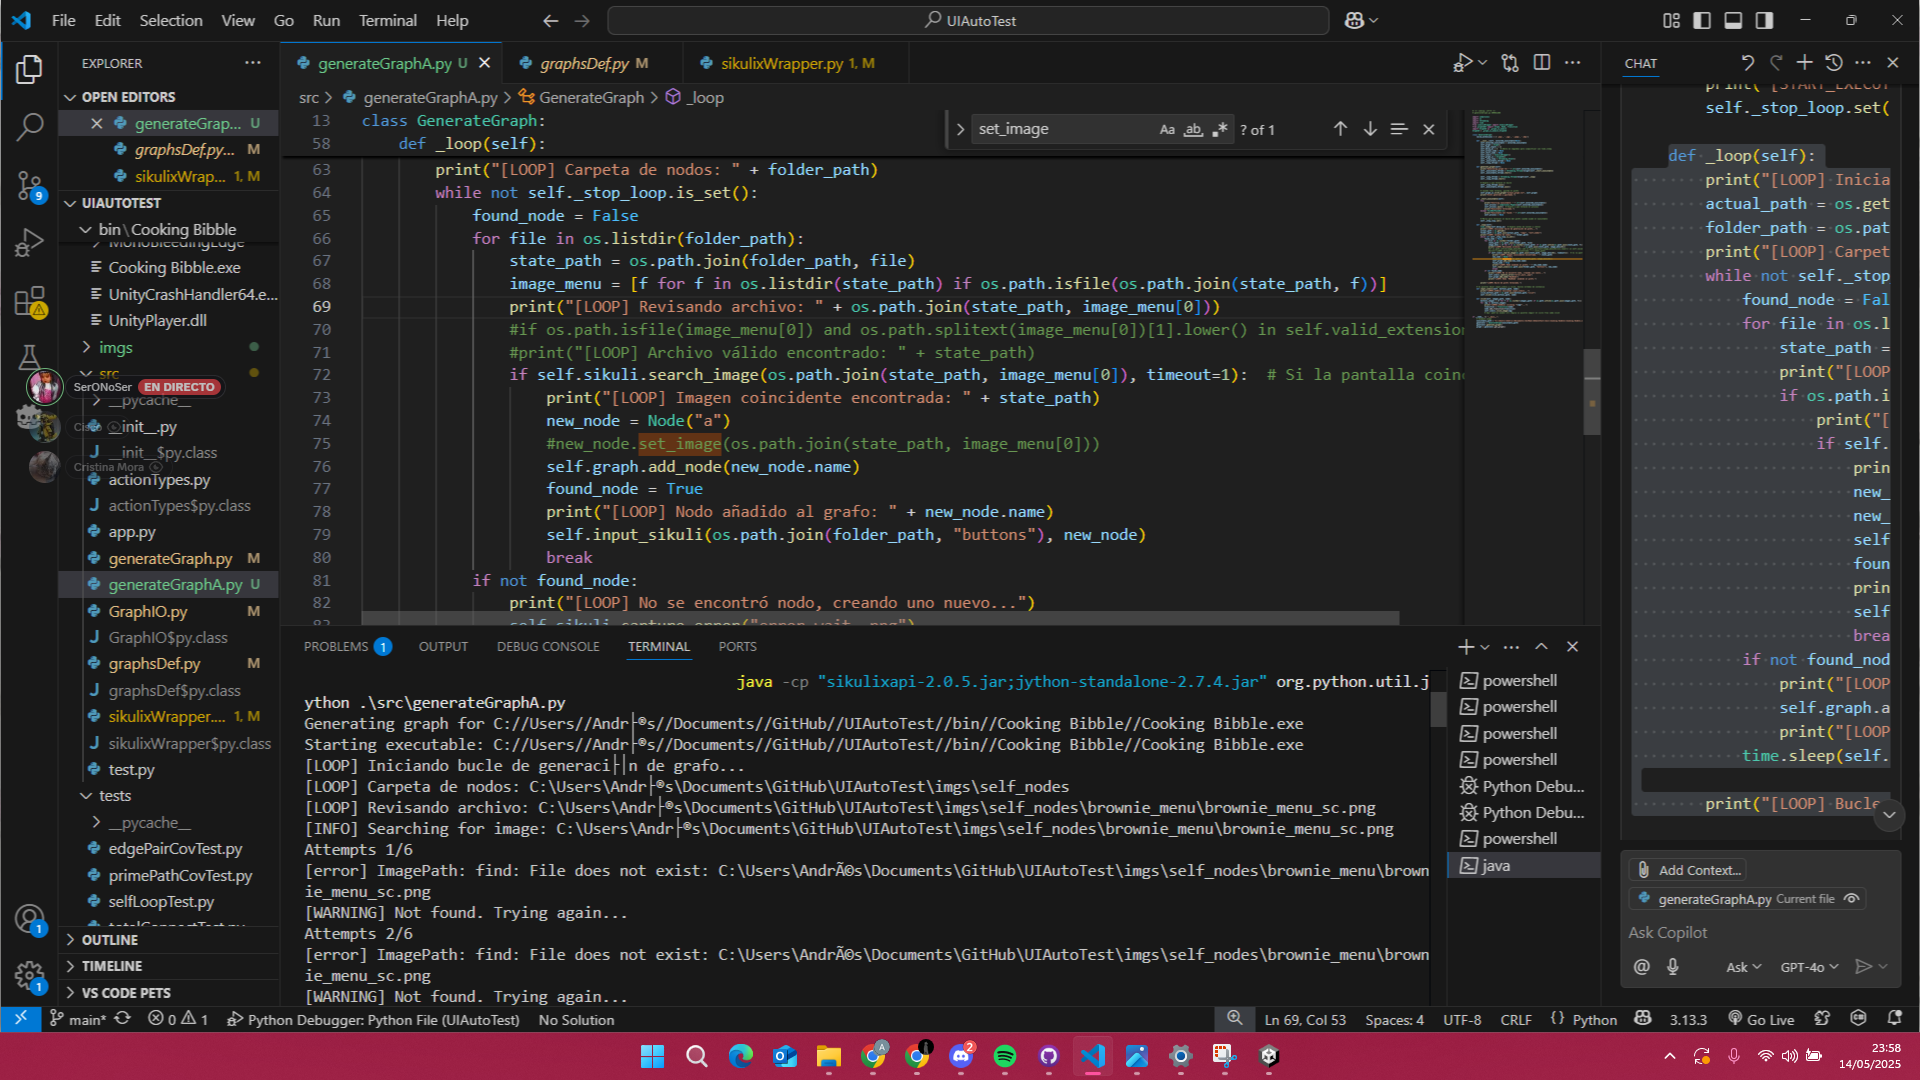
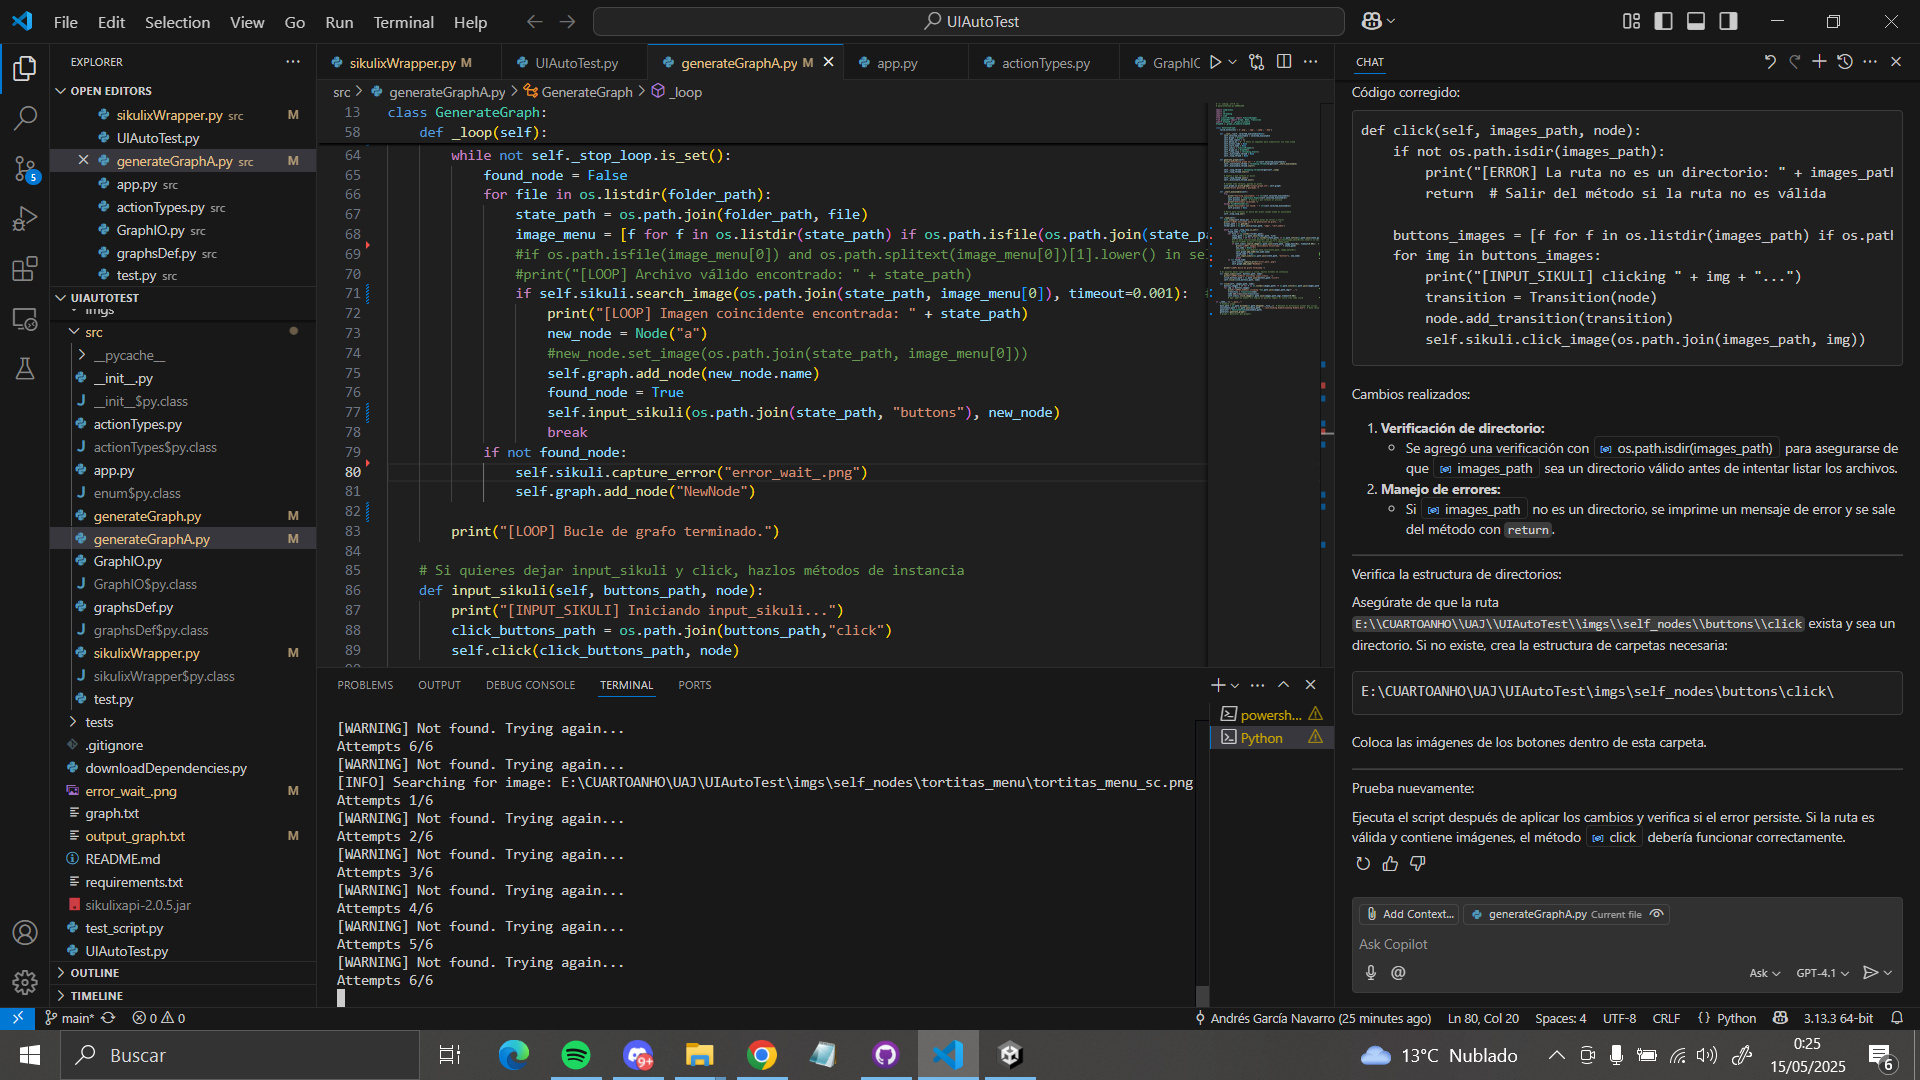
Some changes to make it work
At least once...

diff --git a/src/generateGraphA.py b/src/generateGraphA.py
@@ -60,30 +60,26 @@ class GenerateGraph:
         print("[LOOP] Iniciando bucle de generación de grafo...")
         actual_path = os.getcwd()
         folder_path = os.path.join(actual_path, "imgs", "self_nodes")
-        print("[LOOP] Carpeta de nodos: " + folder_path)
+      
         while not self._stop_loop.is_set():
             found_node = False
             for file in os.listdir(folder_path):
                 state_path = os.path.join(folder_path, file)
                 image_menu = [f for f in os.listdir(state_path) if os.path.isfile(os.path.join(state_path, f))]
-                print("[LOOP] Revisando archivo: " + os.path.join(state_path, image_menu[0]))
                 #if os.path.isfile(image_menu[0]) and os.path.splitext(image_menu[0])[1].lower() in self.valid_extensions:
                 #print("[LOOP] Archivo válido encontrado: " + state_path)
-                if self.sikuli.search_image(os.path.join(state_path, image_menu[0]), timeout=1):  # Si la pantalla coincide
+                if self.sikuli.search_image(os.path.join(state_path, image_menu[0]), timeout=0.001):  # Si la pantalla coincide
                     print("[LOOP] Imagen coincidente encontrada: " + state_path)
                     new_node = Node("a")
                     #new_node.set_image(os.path.join(state_path, image_menu[0]))
                     self.graph.add_node(new_node.name)
                     found_node = True
-                    print("[LOOP] Nodo añadido al grafo: " + new_node.name)
-                    self.input_sikuli(os.path.join(folder_path, "buttons"), new_node)
+                    self.input_sikuli(os.path.join(state_path, "buttons"), new_node)
                     break
             if not found_node:
-                print("[LOOP] No se encontró nodo, creando uno nuevo...")                
                 self.sikuli.capture_error("error_wait_.png")
                 self.graph.add_node("NewNode")
-                print("[LOOP] Nodo 'NewNode' añadido al grafo.")
-
+                
         print("[LOOP] Bucle de grafo terminado.")
 
     # Si quieres dejar input_sikuli y click, hazlos métodos de instancia
@@ -95,10 +91,10 @@ class GenerateGraph:
     def click(self, images_path, node):
         buttons_images = [f for f in os.listdir(images_path) if os.path.isfile(os.path.join(images_path, f))]
         for img in buttons_images:
-            print("[INPUT_SIKULI] clicking "+img+"...")
+            print("[INPUT_SIKULI] clicking "+os.path.join(images_path,img)+"...")
             transition = Transition(node)
             node.add_transition(transition)
-            self.sikuli.click_image(img)
+            self.sikuli.click_image(os.path.join(images_path,img),timeout=0.001)
             # Aquí podrías añadir más lógica si quieres seguir el ciclo tras cada click
 
 if __name__ == "__main__":
@@ -107,4 +103,4 @@ if __name__ == "__main__":
     executable_path = os.path.join(base_path, "../bin/Cooking Bibble/Cooking Bibble.exe")  # Ruta relativa
     generator = GenerateGraph(executable_path)
     generator.generate_graph()
-    graph = generator.get_graph()
+    # graph = generator.get_graph()

diff --git a/src/sikulixWrapper.py b/src/sikulixWrapper.py
@@ -62,7 +62,7 @@ class SikulixWrapper:
         :param similarity_reduction: Amount to reduce similarity per attempt.
         :return: True if the click was successful; False otherwise.
         """
-
+        print("[INFO] Trying click on image: " + image_path)
         for attempt in range(retries):
             actual_attempt = attempt + 1
             actual_similarity = similarity - (similarity_reduction*attempt)

diff --git a/src/generateGraph.py b/src/generateGraph.py
@@ -127,7 +127,7 @@ def click(self, images_path, node):
 
 if __name__ == "__main__":
     # Example usage
-    executable_path = "C://Users//Andrés//Documents//GitHub//UIAutoTest//bin//Cooking Bibble//Cooking Bibble.exe"
+    executable_path = "bin/Cooking Bibble/Cooking Bibble.exe"
     generator = GenerateGraph(executable_path)
     generator.generate_graph()
     graph = generator.get_graph()
